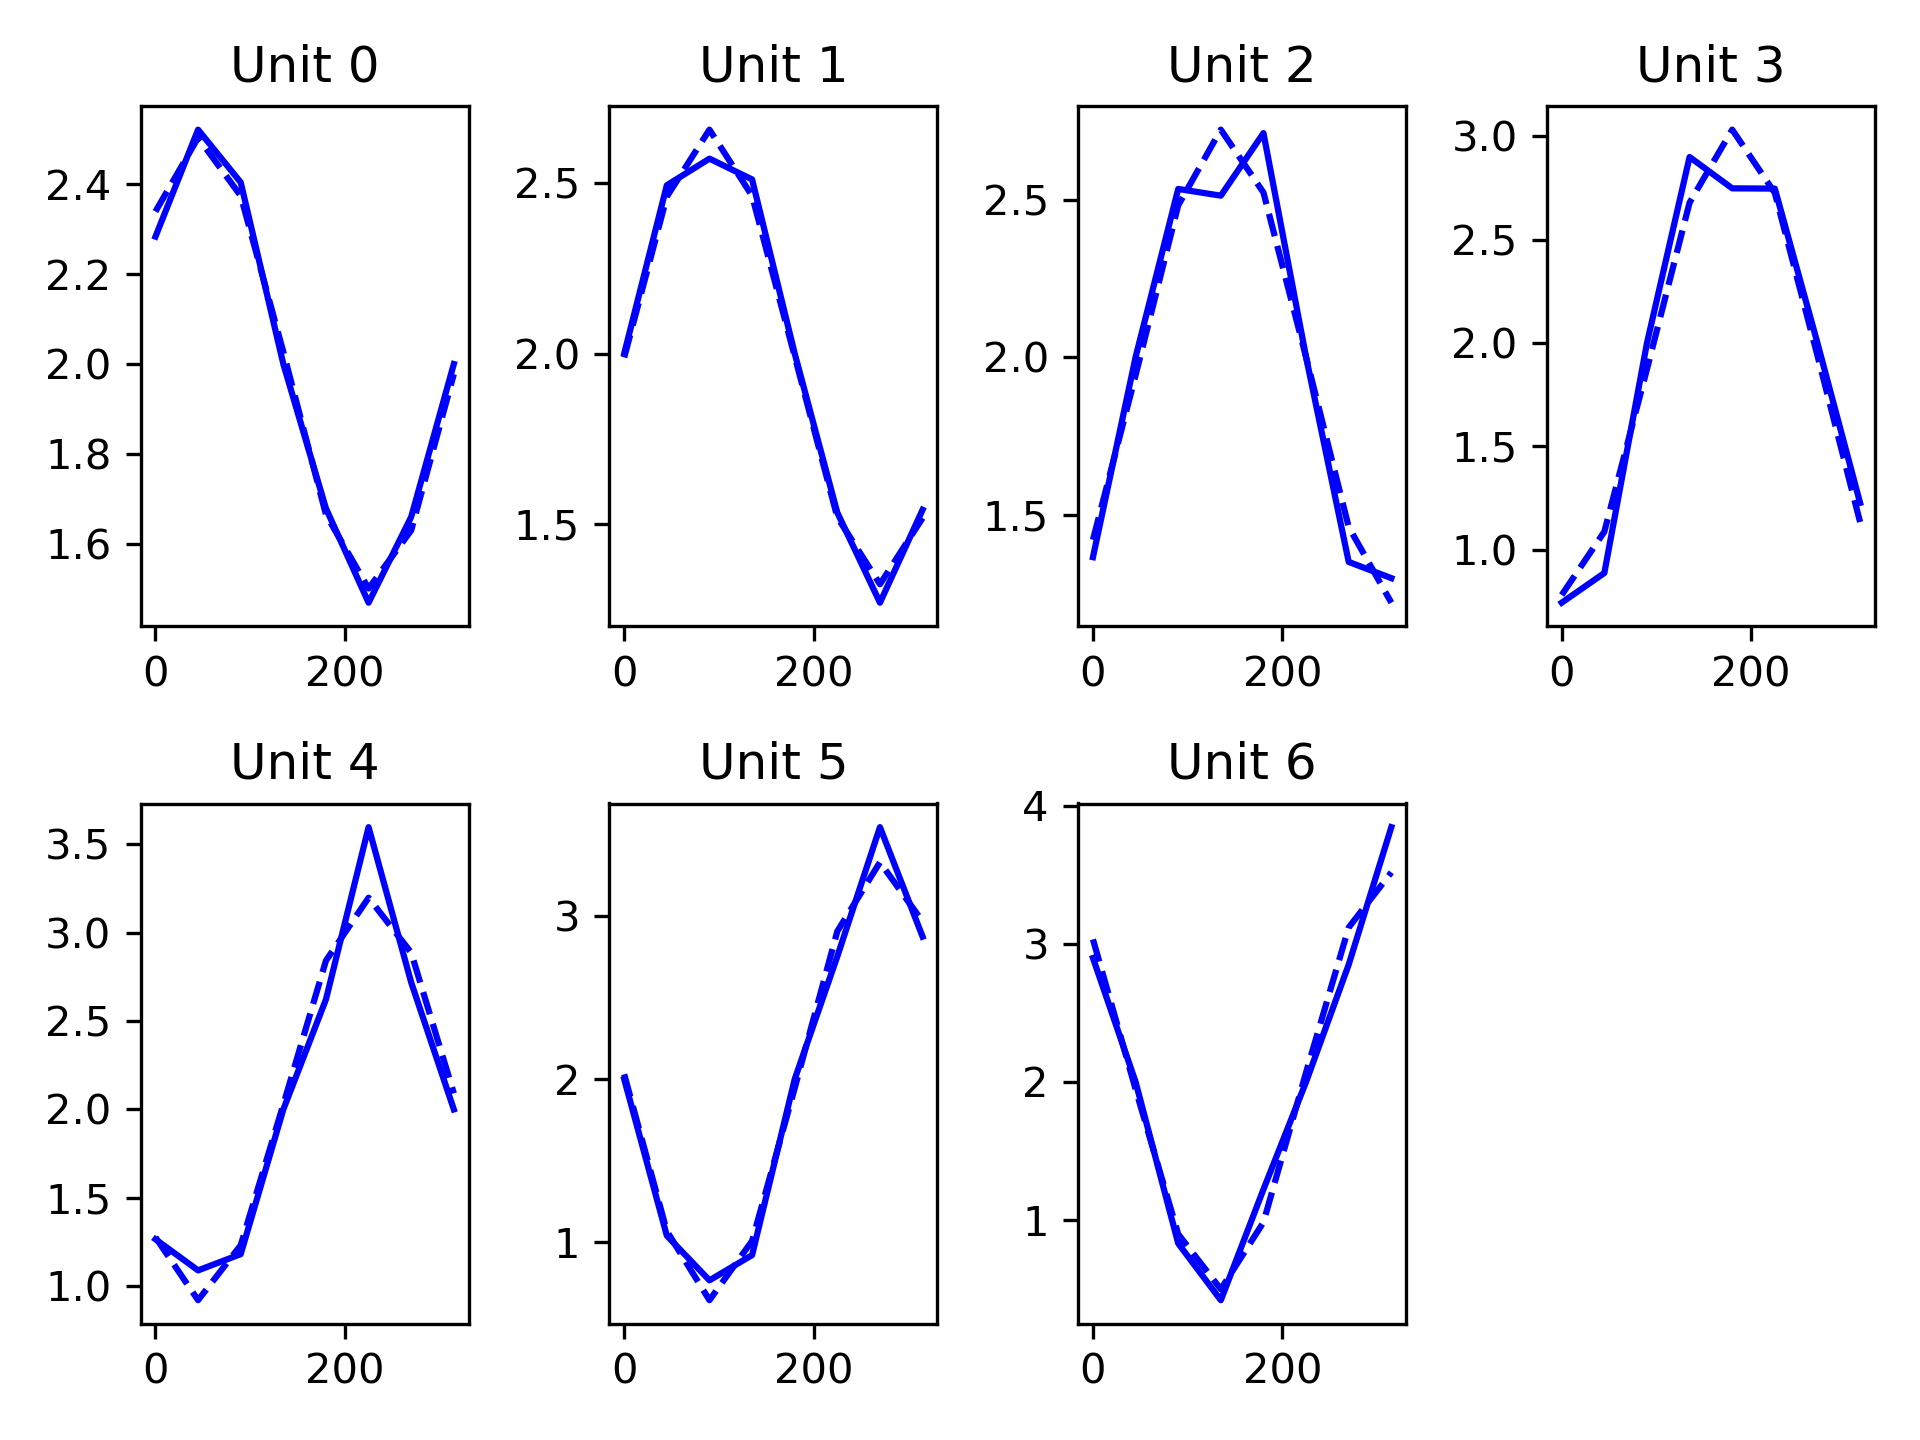
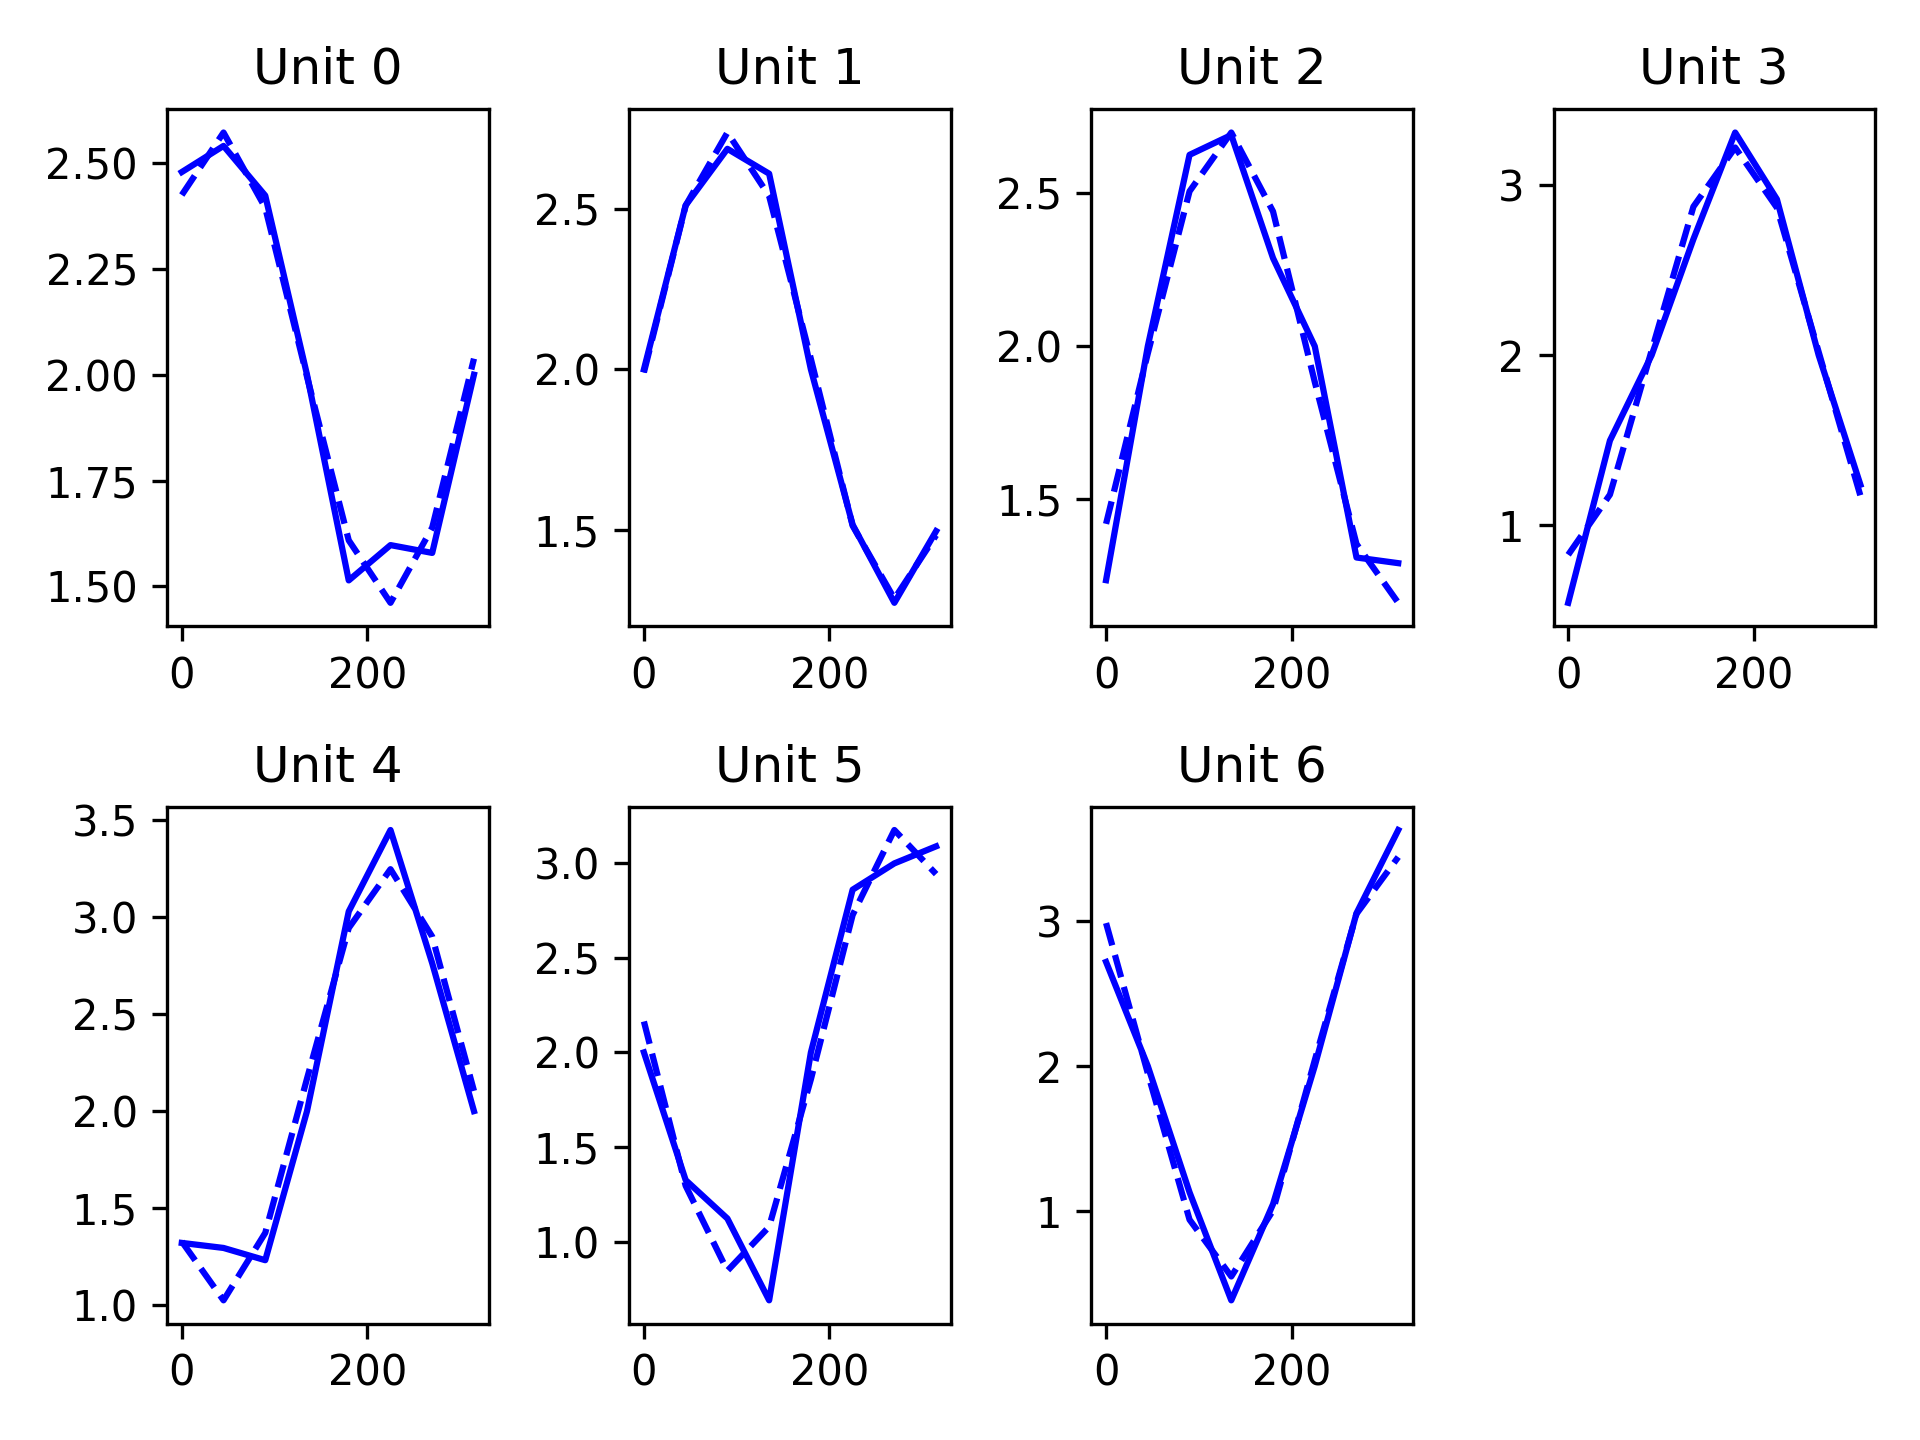
add direction tuning

diff --git a/aopy/visualization/base.py b/aopy/visualization/base.py
@@ -1285,7 +1285,105 @@ def plot_waveforms(waveforms, samplerate, plot_mean=True, ax=None):
     else:
         ax.plot(time_axis, waveforms)
 
-    ax.set_xlabel(r'Time ($\mu$s)')
+    ax.set_xlabel(r'Time ($\mu$s)')    
+    
+def plot_direction_tuning(direction, mean, var=None, wrap=True, modulo=2*np.pi, ylabel='success rate', ax=None):
+    '''
+    Plot tuning curves for directional data. The mean is plotted as a solid line and the variance as 
+    a shaded region around the mean. Works with both cartesian and polar axes. 
+    
+    Args:
+        direction (ndir): direction of each tuning curve
+        mean (ndir, nch): mean of the tuning curve for each channel. If only one channel, can be (ndir,)
+        var (ndir, nch): variance of the tuning curve for each channel. If only one channel, can be (ndir,)
+            Can also be left blank if there is no variance to plot.
+        wrap (bool, optional): if True, duplicates the first value to wrap the plot around a circle. Default True.
+        modulo (float, optional): value at which to wrap the direction values. Default is 2*np.pi for data where
+            the direction spans an entire circle. For cases where -pi is the same as +pi, a modulo of np.pi 
+            would be input instead.
+        ylabel (str, optional): label for the y-axis. Default "success rate"
+        ax (pyplot.Axes, optional): axis to plot the tuning curves on. Default the current axis.
+    
+    Example:
+        Polar plot of tuning curves for 4 targets
+
+        .. code-block:: python
+            fig = plt.figure()
+            ax = fig.add_subplot(projection='polar')
+            
+            direction = [-np.pi, -np.pi/2, 0, np.pi/2]
+            mean = np.array([[1, 2, 3, 2], [2, 3, 4, 3]]).T
+            var = np.array([[0.2, 0.3, 0.1, 0.], [0.4, 0.6, 0.2, 0]]).T
+
+        .. image:: _images/direction_tuning_polar.png
+    '''
+    if var is None:
+        var = np.zeros_like(mean)
+    assert np.shape(mean) == np.shape(var), "Mean and variance must have the same shape"
+    if np.ndim(mean) == 1:
+        mean = np.expand_dims(mean, 1)
+        var = np.expand_dims(var, 1)
+
+    if ax is None:
+        ax = plt.gca()
+            
+    if len(direction) != len(mean):
+        direction = np.unique(direction)
+    assert len(direction) == len(mean), "Direction and mean must have the same length"
+
+    # Sort the data
+    direction = np.array(direction) % modulo
+    idx = np.argsort(direction)
+
+    # Wrap around the circle
+    if wrap:
+        direction = np.hstack((direction[idx], [direction[idx[0]] + modulo]))
+        mean = np.vstack((mean[idx], [mean[idx[0]]]))
+        var = np.vstack((var[idx], [var[idx[0]]]))
+    else:
+        direction = direction[idx]
+        mean = mean[idx]
+        var = var[idx]
+
+    if ax.name != 'polar':
+        direction = np.degrees(direction)
+
+    for ch in range(mean.shape[1]):
+        ax.plot(direction, mean[:,ch])
+        ax.fill_between(direction, mean[:,ch]-var[:,ch], mean[:,ch]+var[:,ch], alpha=0.5)
+
+    try:
+        label_position=ax.get_rlabel_position()
+        ax.text(np.radians(label_position-1),ax.get_rmax()*1.1,ylabel,
+            rotation=label_position,ha='left',va='center')
+    except:
+        ax.set_xlabel('Target angle (deg)')
+        ax.set_ylabel(ylabel)
+    
+def plot_target_tuning(target_locations, target_mean, target_var=None, modulo=2*np.pi, 
+                       wrap=True, ylabel='success rate', ax=None):
+    '''
+    Plot direction tuning curves for targets, e.g. for a center-out task. Makes use of 
+        `func:~aopy.visualization.plot_direction_tuning`.
+
+    Args:
+        target_locations (ntargets, 2): array of target (x, y) locations
+        target_mean (ntargets, nch): mean of the tuning curve for each channel. If only one channel, can be (ndir,)
+        target_var (ntargets, nch): variance of the tuning curve for each channel. If only one channel, can be (ndir,)
+            Can also be left blank if there is no variance to plot.
+        modulo (float, optional): value at which to wrap the direction values. Default is 2*np.pi for data where
+            the direction spans an entire circle. For cases where -pi is the same as +pi, a modulo of np.pi 
+            would be input instead.
+        wrap (bool, optional): if True, duplicates the first value to wrap the plot around a circle. Default True.
+        ylabel (str, optional): label for the y-axis. Default "success rate"
+        ax (pyplot.Axes, optional): axis to plot the tuning curves on. Default the current axis.
+    '''
+    if len(target_locations) != len(target_mean):
+        target_locations = np.unique(target_locations, axis=0)
+    assert len(target_locations) == len(target_mean), "Target locations and means must have the same length"
+    
+    target_angles = np.array([np.arctan2(*t[:2]) for t in target_locations])
+    plot_direction_tuning(target_angles, target_mean, var=target_var, modulo=modulo, wrap=wrap, ylabel=ylabel, ax=ax)
 
 def plot_tuning_curves(fit_params, mean_fr, targets, n_subplot_cols=5, ax=None):
     '''

diff --git a/tests/test_visualization.py b/tests/test_visualization.py
@@ -241,6 +241,7 @@ class CurveFittingTests(unittest.TestCase):
         mds_true = np.linspace(1, 3, nunits)/2
         pds_offset = np.arange(-45,270,45)
         data = np.zeros((nunits,8))*np.nan
+        np.random.seed(0)
         for ii in range(nunits):
             noise = np.random.normal(1, 0.2, size=(1,8))
             data[ii,:] = noise*mds_true[ii]*np.sin(np.deg2rad(targets)-np.deg2rad(pds_offset[ii])) + 2
@@ -249,11 +250,43 @@ class CurveFittingTests(unittest.TestCase):
         # Test without ax input
         fit_params, _, _ = aopy.analysis.run_tuningcurve_fit(data, targets)
         plot_tuning_curves(fit_params, data, targets, n_subplot_cols=4)
+        savefig(docs_dir, filename, transparent=False)
 
         # test with ax input
         fig, ax = plt.subplots(2,4)
         plot_tuning_curves(fit_params, data, targets, n_subplot_cols=4, ax=ax)
+
+    def test_plot_direction_tuning(self):
+        direction = [-np.pi, -np.pi/2, 0, np.pi/2]
+        mean = [1, 2, 3, 2]
         
+        plt.figure()
+        plot_direction_tuning(direction, mean)
+        savefig(write_dir, 'direction_tuning_simple.png', transparent=False)
+
+        # Again with polar plot
+        fig = plt.figure()
+        ax = fig.add_subplot(projection='polar')
+
+        plot_direction_tuning(direction, mean, wrap=False)
+        savefig(write_dir, 'direction_tuning_simple_polar.png', transparent=False)
+
+        # Try multichannel
+        direction = [-np.pi, -np.pi/2, 0, np.pi/2]
+        mean = np.array([[1, 2, 3, 2], [2, 3, 4, 3]]).T
+        var = np.array([[0.2, 0.3, 0.1, 0.], [0.4, 0.6, 0.2, 0]]).T
+        
+        plt.figure()
+        plot_direction_tuning(direction, mean, var)
+        savefig(docs_dir, 'direction_tuning.png', transparent=False)
+
+        # Again with polar plot
+        fig = plt.figure()
+        ax = fig.add_subplot(projection='polar')
+
+        plot_direction_tuning(direction, mean, var)
+        savefig(docs_dir, 'direction_tuning_polar.png', transparent=False)
+
     def test_plot_boxplots(self):
         # Rectangular array
         data = np.random.normal(0, 2, size=(20, 5))
